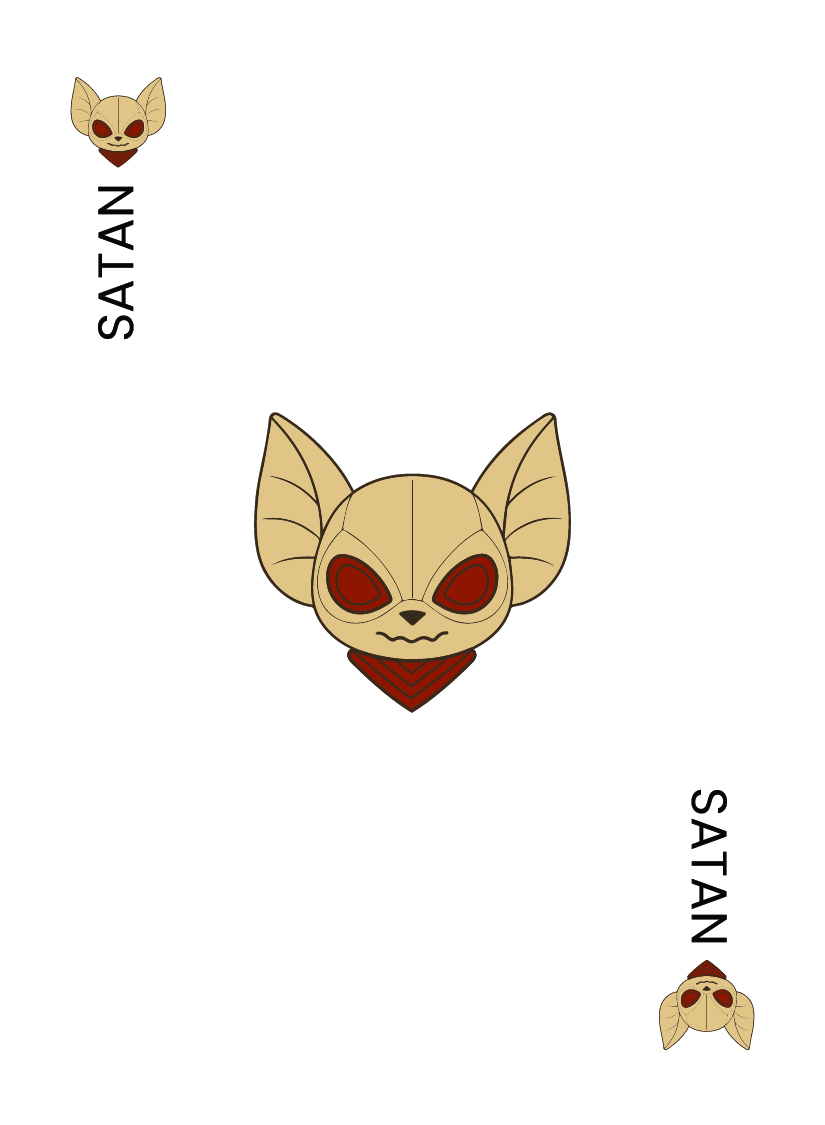
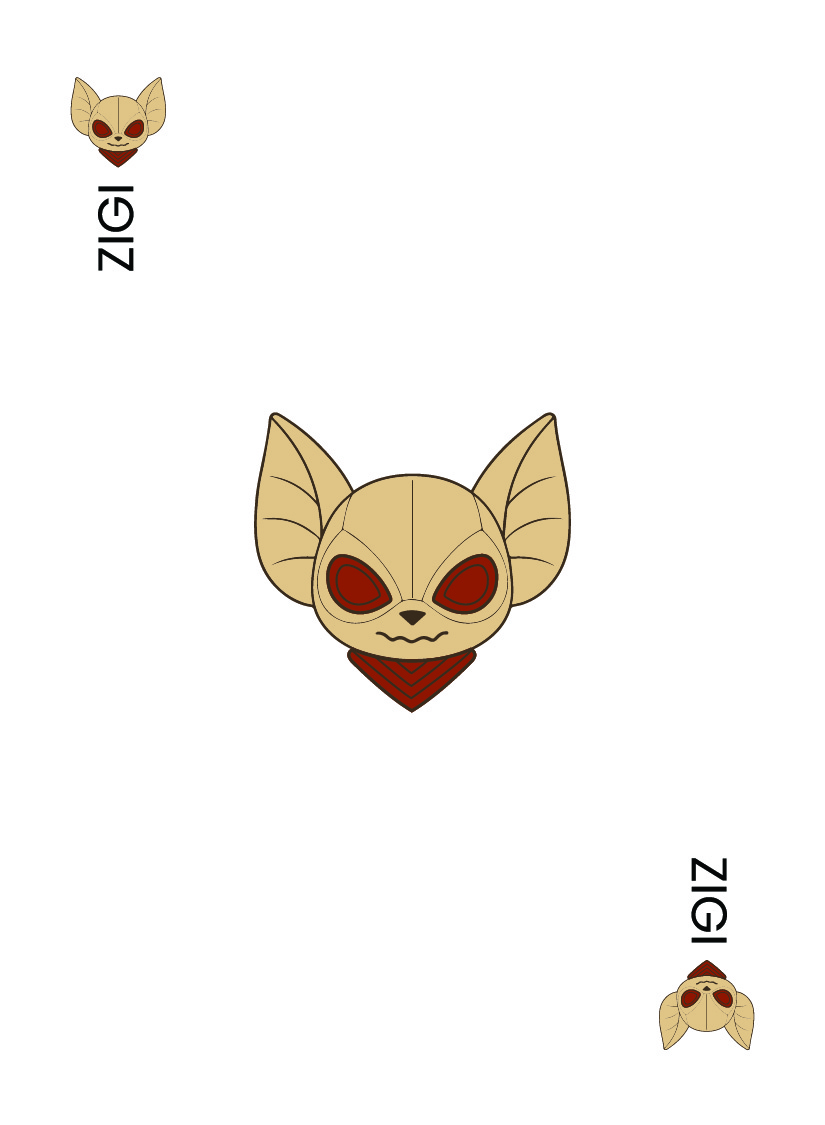
done

Changed region(s): [[0.1212, 0.1556, 0.1818, 0.3111], [0.8182, 0.6844, 0.8788, 0.84]]

diff --git a/src/app/(website)/fortune-telling/_components/fortune-telling-hero.tsx b/src/app/(website)/fortune-telling/_components/fortune-telling-hero.tsx
@@ -22,7 +22,7 @@ export default function FortuneTellingHero() {
       animate={{ opacity: 1, y: 0 }}
       transition={{ duration: 0.7, ease: EASE_OUT }}
     >
-      <div className="relative min-h-[360px] md:min-h-[420px] lg:min-h-[500px]">
+      <div className="relative min-h-[360px] md:min-h-[420px] lg:min-h-[500px] ">
         <div className="relative z-10 max-w-[820px]">
           <div className="mb-6 flex flex-wrap items-center gap-2 text-[9px] uppercase tracking-[0.22em] text-[#768483]">
             <span className="rounded-full border border-[#203236] px-3 py-1">

diff --git a/src/app/(website)/fortune-telling/_components/the-reading.tsx b/src/app/(website)/fortune-telling/_components/the-reading.tsx
@@ -107,7 +107,7 @@ const CARDS_DATA: CardData[] = [
     id: "Zigi",
     symbol: "ZIGI",
     name: "Zigi",
-    imageSrc: "/shapes/zigi.png",
+    imageSrc: "/shapes/zigi.svg",
   },
 ];
 
